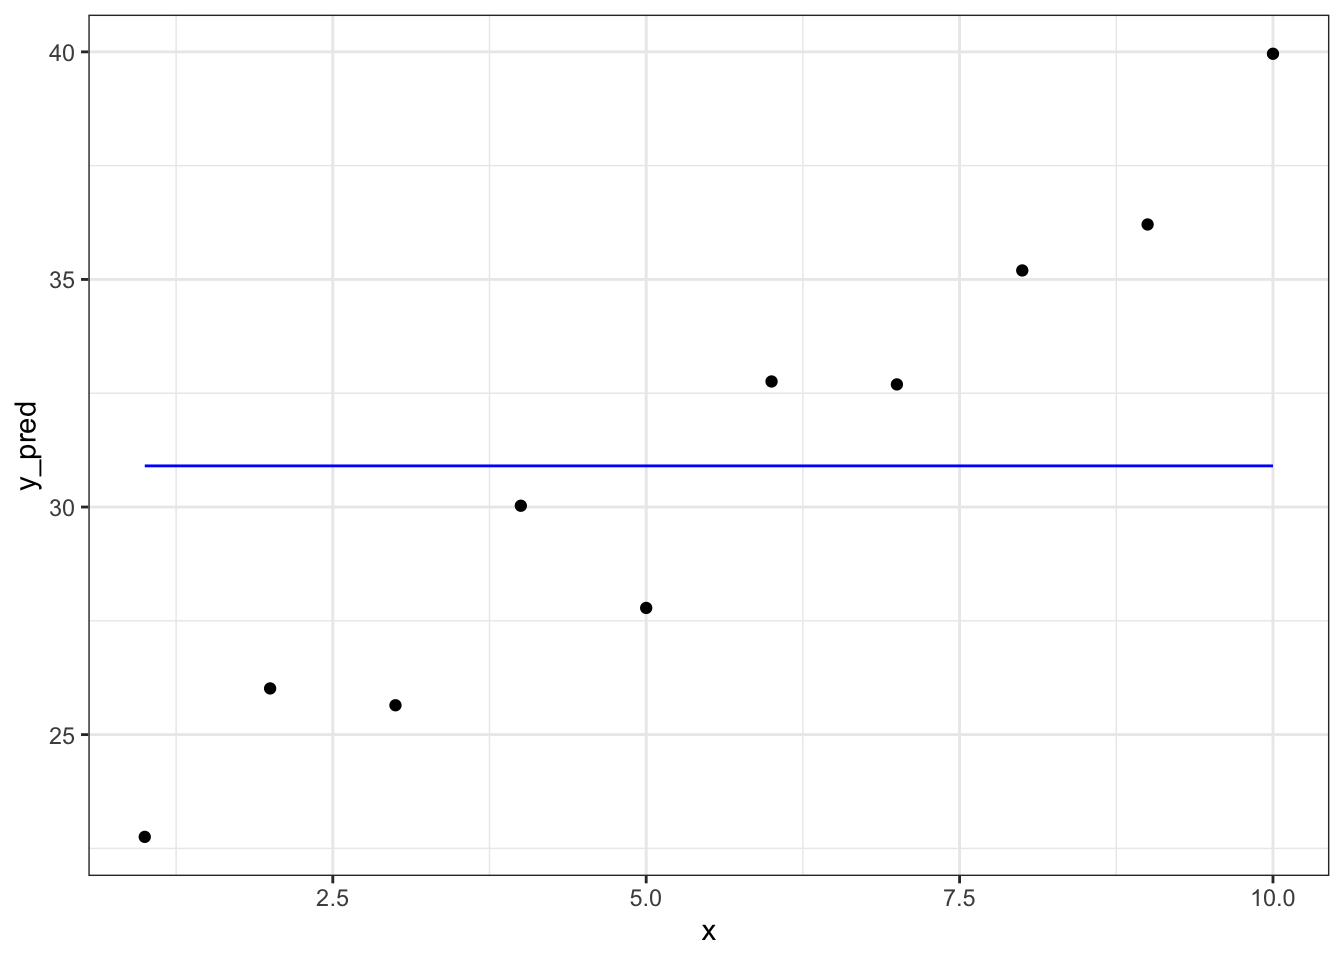
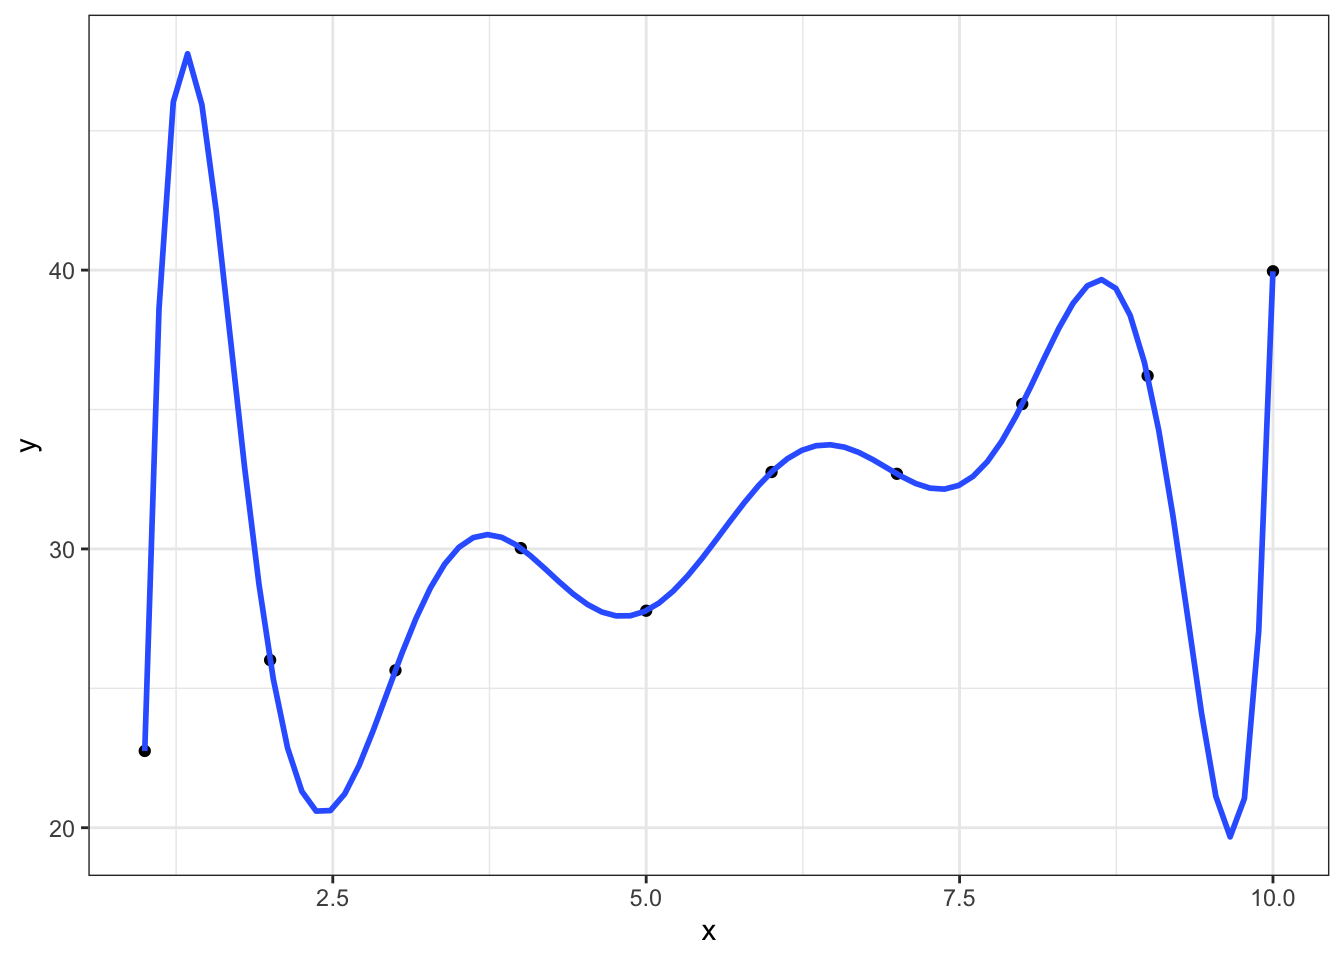
Change to using `gf_smooth()` to plot model expectation

diff --git a/beware_of_r-square.html b/beware_of_r-square.html
@@ -129,38 +129,30 @@ pre > code.sourceCode > span > a:first-child::before { text-decoration: underlin
 </div>
 </div>
 <div class="cell">
-<div class="code-copy-outer-scaffold"><div class="sourceCode cell-code" id="cb4"><pre class="sourceCode r code-with-copy"><code class="sourceCode r"><span id="cb4-1"><a href="#cb4-1" aria-hidden="true" tabindex="-1"></a>m0 <span class="ot">&lt;-</span> <span class="fu">lm</span>(y <span class="sc">~</span> <span class="dv">1</span>, <span class="at">data =</span> d)</span>
-<span id="cb4-2"><a href="#cb4-2" aria-hidden="true" tabindex="-1"></a>m1 <span class="ot">&lt;-</span> <span class="fu">lm</span>(y <span class="sc">~</span> x, <span class="at">data =</span> d)</span>
-<span id="cb4-3"><a href="#cb4-3" aria-hidden="true" tabindex="-1"></a>m2 <span class="ot">&lt;-</span> <span class="fu">lm</span>(y <span class="sc">~</span> <span class="fu">poly</span>(x, N<span class="dv">-1</span>), <span class="at">data =</span> d)</span></code></pre></div><button title="Copy to Clipboard" class="code-copy-button"><i class="bi"></i></button></div>
+<div class="code-copy-outer-scaffold"><div class="sourceCode cell-code" id="cb4"><pre class="sourceCode r code-with-copy"><code class="sourceCode r"><span id="cb4-1"><a href="#cb4-1" aria-hidden="true" tabindex="-1"></a><span class="fu">gf_point</span>(y <span class="sc">~</span> x, <span class="at">data =</span> d) <span class="sc">|&gt;</span></span>
+<span id="cb4-2"><a href="#cb4-2" aria-hidden="true" tabindex="-1"></a>  <span class="fu">gf_smooth</span>(<span class="at">method =</span> <span class="st">"lm"</span>, <span class="at">formula =</span> y <span class="sc">~</span> <span class="dv">1</span>, <span class="at">se =</span> <span class="cn">FALSE</span>)</span></code></pre></div><button title="Copy to Clipboard" class="code-copy-button"><i class="bi"></i></button></div>
+<div class="cell-output-display">
+<div>
+<figure class="figure">
+<p><img src="beware_of_r-square_files/figure-html/unnamed-chunk-4-1.png" class="img-fluid figure-img" width="672"></p>
+</figure>
 </div>
-<div class="cell">
-<div class="code-copy-outer-scaffold"><div class="sourceCode cell-code" id="cb5"><pre class="sourceCode r code-with-copy"><code class="sourceCode r"><span id="cb5-1"><a href="#cb5-1" aria-hidden="true" tabindex="-1"></a><span class="fu">compare_performance</span>(m0, m1, m2)</span></code></pre></div><button title="Copy to Clipboard" class="code-copy-button"><i class="bi"></i></button></div>
-<div class="cell-output cell-output-stderr">
-<pre><code>Warning: Model has zero degrees of freedom!
-Warning: Model has zero degrees of freedom!
-Warning: Model has zero degrees of freedom!
-Warning: Model has zero degrees of freedom!
-Warning: Model has zero degrees of freedom!
-Warning: Model has zero degrees of freedom!</code></pre>
-</div>
-<div class="cell-output cell-output-stdout">
-<pre><code># Comparison of Model Performance Indices
-
-Name | Model | AIC (weights) | AICc (weights) | BIC (weights) |    R2 |  RMSE
------------------------------------------------------------------------------
-m0   |    lm |  65.1 (&gt;.999) |   66.8 (&gt;.999) |  65.7 (&gt;.999) | 0.000 | 5.135
-m1   |    lm |  37.9 (&gt;.999) |   41.9 (&gt;.999) |  38.8 (&gt;.999) | 0.946 | 1.192
-m2   |    lm |  -Inf (&gt;.999) |   -Inf (&gt;.999) |  -Inf (&gt;.999) | 1.000 | 0.000
-
-Name | R2 (adj.) | Sigma
-------------------------
-m0   |     0.000 | 5.413
-m1   |     0.939 | 1.333
-m2   |           |      </code></pre>
 </div>
 </div>
 <div class="cell">
-<div class="code-copy-outer-scaffold"><div class="sourceCode cell-code" id="cb8"><pre class="sourceCode r code-with-copy"><code class="sourceCode r"><span id="cb8-1"><a href="#cb8-1" aria-hidden="true" tabindex="-1"></a><span class="fu">gf_line</span>(y_pred <span class="sc">~</span> x, <span class="at">data =</span> <span class="fu">tibble</span>(<span class="at">y_pred =</span> <span class="fu">predict</span>(m0), x), <span class="at">color =</span> <span class="st">"blue"</span>)  <span class="sc">|&gt;</span> <span class="fu">gf_point</span>(y <span class="sc">~</span> x, <span class="at">data =</span> d)</span></code></pre></div><button title="Copy to Clipboard" class="code-copy-button"><i class="bi"></i></button></div>
+<div class="code-copy-outer-scaffold"><div class="sourceCode cell-code" id="cb5"><pre class="sourceCode r code-with-copy"><code class="sourceCode r"><span id="cb5-1"><a href="#cb5-1" aria-hidden="true" tabindex="-1"></a><span class="fu">gf_point</span>(y <span class="sc">~</span> x, <span class="at">data =</span> d) <span class="sc">|&gt;</span></span>
+<span id="cb5-2"><a href="#cb5-2" aria-hidden="true" tabindex="-1"></a>  <span class="fu">gf_smooth</span>(<span class="at">method =</span> <span class="st">"lm"</span>, <span class="at">formula =</span> y <span class="sc">~</span> x, <span class="at">se =</span> <span class="cn">FALSE</span>)</span></code></pre></div><button title="Copy to Clipboard" class="code-copy-button"><i class="bi"></i></button></div>
+<div class="cell-output-display">
+<div>
+<figure class="figure">
+<p><img src="beware_of_r-square_files/figure-html/unnamed-chunk-5-1.png" class="img-fluid figure-img" width="672"></p>
+</figure>
+</div>
+</div>
+</div>
+<div class="cell">
+<div class="code-copy-outer-scaffold"><div class="sourceCode cell-code" id="cb6"><pre class="sourceCode r code-with-copy"><code class="sourceCode r"><span id="cb6-1"><a href="#cb6-1" aria-hidden="true" tabindex="-1"></a><span class="fu">gf_point</span>(y <span class="sc">~</span> x, <span class="at">data =</span> d) <span class="sc">|&gt;</span></span>
+<span id="cb6-2"><a href="#cb6-2" aria-hidden="true" tabindex="-1"></a>  <span class="fu">gf_smooth</span>(<span class="at">method =</span> <span class="st">"lm"</span>, <span class="at">formula =</span> y <span class="sc">~</span> <span class="fu">poly</span>(x, N<span class="dv">-1</span>), <span class="at">se =</span> <span class="cn">FALSE</span>)</span></code></pre></div><button title="Copy to Clipboard" class="code-copy-button"><i class="bi"></i></button></div>
 <div class="cell-output-display">
 <div>
 <figure class="figure">
@@ -170,22 +162,90 @@ m2   |           |      </code></pre>
 </div>
 </div>
 <div class="cell">
-<div class="code-copy-outer-scaffold"><div class="sourceCode cell-code" id="cb9"><pre class="sourceCode r code-with-copy"><code class="sourceCode r"><span id="cb9-1"><a href="#cb9-1" aria-hidden="true" tabindex="-1"></a><span class="fu">gf_line</span>(y_pred <span class="sc">~</span> x, <span class="at">data =</span> <span class="fu">tibble</span>(<span class="at">y_pred =</span> <span class="fu">predict</span>(m1), x), <span class="at">color =</span> <span class="st">"blue"</span>)  <span class="sc">|&gt;</span> <span class="fu">gf_point</span>(y <span class="sc">~</span> x, <span class="at">data =</span> d)</span></code></pre></div><button title="Copy to Clipboard" class="code-copy-button"><i class="bi"></i></button></div>
-<div class="cell-output-display">
-<div>
-<figure class="figure">
-<p><img src="beware_of_r-square_files/figure-html/unnamed-chunk-7-1.png" class="img-fluid figure-img" width="672"></p>
-</figure>
-</div>
-</div>
+<div class="code-copy-outer-scaffold"><div class="sourceCode cell-code" id="cb7"><pre class="sourceCode r code-with-copy"><code class="sourceCode r"><span id="cb7-1"><a href="#cb7-1" aria-hidden="true" tabindex="-1"></a>m0 <span class="ot">&lt;-</span> <span class="fu">lm</span>(y <span class="sc">~</span> <span class="dv">1</span>, <span class="at">data =</span> d)</span>
+<span id="cb7-2"><a href="#cb7-2" aria-hidden="true" tabindex="-1"></a>m1 <span class="ot">&lt;-</span> <span class="fu">lm</span>(y <span class="sc">~</span> x, <span class="at">data =</span> d)</span>
+<span id="cb7-3"><a href="#cb7-3" aria-hidden="true" tabindex="-1"></a>m2 <span class="ot">&lt;-</span> <span class="fu">lm</span>(y <span class="sc">~</span> <span class="fu">poly</span>(x, N<span class="dv">-1</span>), <span class="at">data =</span> d)</span></code></pre></div><button title="Copy to Clipboard" class="code-copy-button"><i class="bi"></i></button></div>
 </div>
 <div class="cell">
-<div class="code-copy-outer-scaffold"><div class="sourceCode cell-code" id="cb10"><pre class="sourceCode r code-with-copy"><code class="sourceCode r"><span id="cb10-1"><a href="#cb10-1" aria-hidden="true" tabindex="-1"></a><span class="fu">gf_line</span>(y_pred <span class="sc">~</span> x, <span class="at">data =</span> <span class="fu">tibble</span>(<span class="at">y_pred =</span> <span class="fu">predict</span>(m2), x), <span class="at">color =</span> <span class="st">"blue"</span>)  <span class="sc">|&gt;</span> <span class="fu">gf_point</span>(y <span class="sc">~</span> x, <span class="at">data =</span> d)</span></code></pre></div><button title="Copy to Clipboard" class="code-copy-button"><i class="bi"></i></button></div>
+<div class="code-copy-outer-scaffold"><div class="sourceCode cell-code" id="cb8"><pre class="sourceCode r code-with-copy"><code class="sourceCode r"><span id="cb8-1"><a href="#cb8-1" aria-hidden="true" tabindex="-1"></a><span class="fu">compare_performance</span>(m0, m1, m2)</span></code></pre></div><button title="Copy to Clipboard" class="code-copy-button"><i class="bi"></i></button></div>
 <div class="cell-output-display">
-<div>
-<figure class="figure">
-<p><img src="beware_of_r-square_files/figure-html/unnamed-chunk-8-1.png" class="img-fluid figure-img" width="672"></p>
-</figure>
+<div class="kable-table">
+<table class="caption-top table table-sm table-striped small">
+<colgroup>
+<col style="width: 6%">
+<col style="width: 7%">
+<col style="width: 7%">
+<col style="width: 8%">
+<col style="width: 7%">
+<col style="width: 9%">
+<col style="width: 7%">
+<col style="width: 8%">
+<col style="width: 8%">
+<col style="width: 7%">
+<col style="width: 14%">
+<col style="width: 7%">
+</colgroup>
+<thead>
+<tr class="header">
+<th style="text-align: left;">Name</th>
+<th style="text-align: left;">Model</th>
+<th style="text-align: right;">AIC</th>
+<th style="text-align: right;">AIC_wt</th>
+<th style="text-align: right;">AICc</th>
+<th style="text-align: right;">AICc_wt</th>
+<th style="text-align: right;">BIC</th>
+<th style="text-align: right;">BIC_wt</th>
+<th style="text-align: right;">R2</th>
+<th style="text-align: right;">RMSE</th>
+<th style="text-align: right;">R2_adjusted</th>
+<th style="text-align: right;">Sigma</th>
+</tr>
+</thead>
+<tbody>
+<tr class="odd">
+<td style="text-align: left;">m0</td>
+<td style="text-align: left;">lm</td>
+<td style="text-align: right;">65.10</td>
+<td style="text-align: right;">NaN</td>
+<td style="text-align: right;">66.81</td>
+<td style="text-align: right;">NaN</td>
+<td style="text-align: right;">65.71</td>
+<td style="text-align: right;">NaN</td>
+<td style="text-align: right;">0.0000</td>
+<td style="text-align: right;">5.135</td>
+<td style="text-align: right;">0.0000</td>
+<td style="text-align: right;">5.413</td>
+</tr>
+<tr class="even">
+<td style="text-align: left;">m1</td>
+<td style="text-align: left;">lm</td>
+<td style="text-align: right;">37.89</td>
+<td style="text-align: right;">NaN</td>
+<td style="text-align: right;">41.89</td>
+<td style="text-align: right;">NaN</td>
+<td style="text-align: right;">38.80</td>
+<td style="text-align: right;">NaN</td>
+<td style="text-align: right;">0.9461</td>
+<td style="text-align: right;">1.192</td>
+<td style="text-align: right;">0.9394</td>
+<td style="text-align: right;">1.333</td>
+</tr>
+<tr class="odd">
+<td style="text-align: left;">m2</td>
+<td style="text-align: left;">lm</td>
+<td style="text-align: right;">-Inf</td>
+<td style="text-align: right;">NaN</td>
+<td style="text-align: right;">-Inf</td>
+<td style="text-align: right;">NaN</td>
+<td style="text-align: right;">-Inf</td>
+<td style="text-align: right;">NaN</td>
+<td style="text-align: right;">1.0000</td>
+<td style="text-align: right;">0.000</td>
+<td style="text-align: right;">NA</td>
+<td style="text-align: right;">NA</td>
+</tr>
+</tbody>
+</table>
 </div>
 </div>
 </div>
